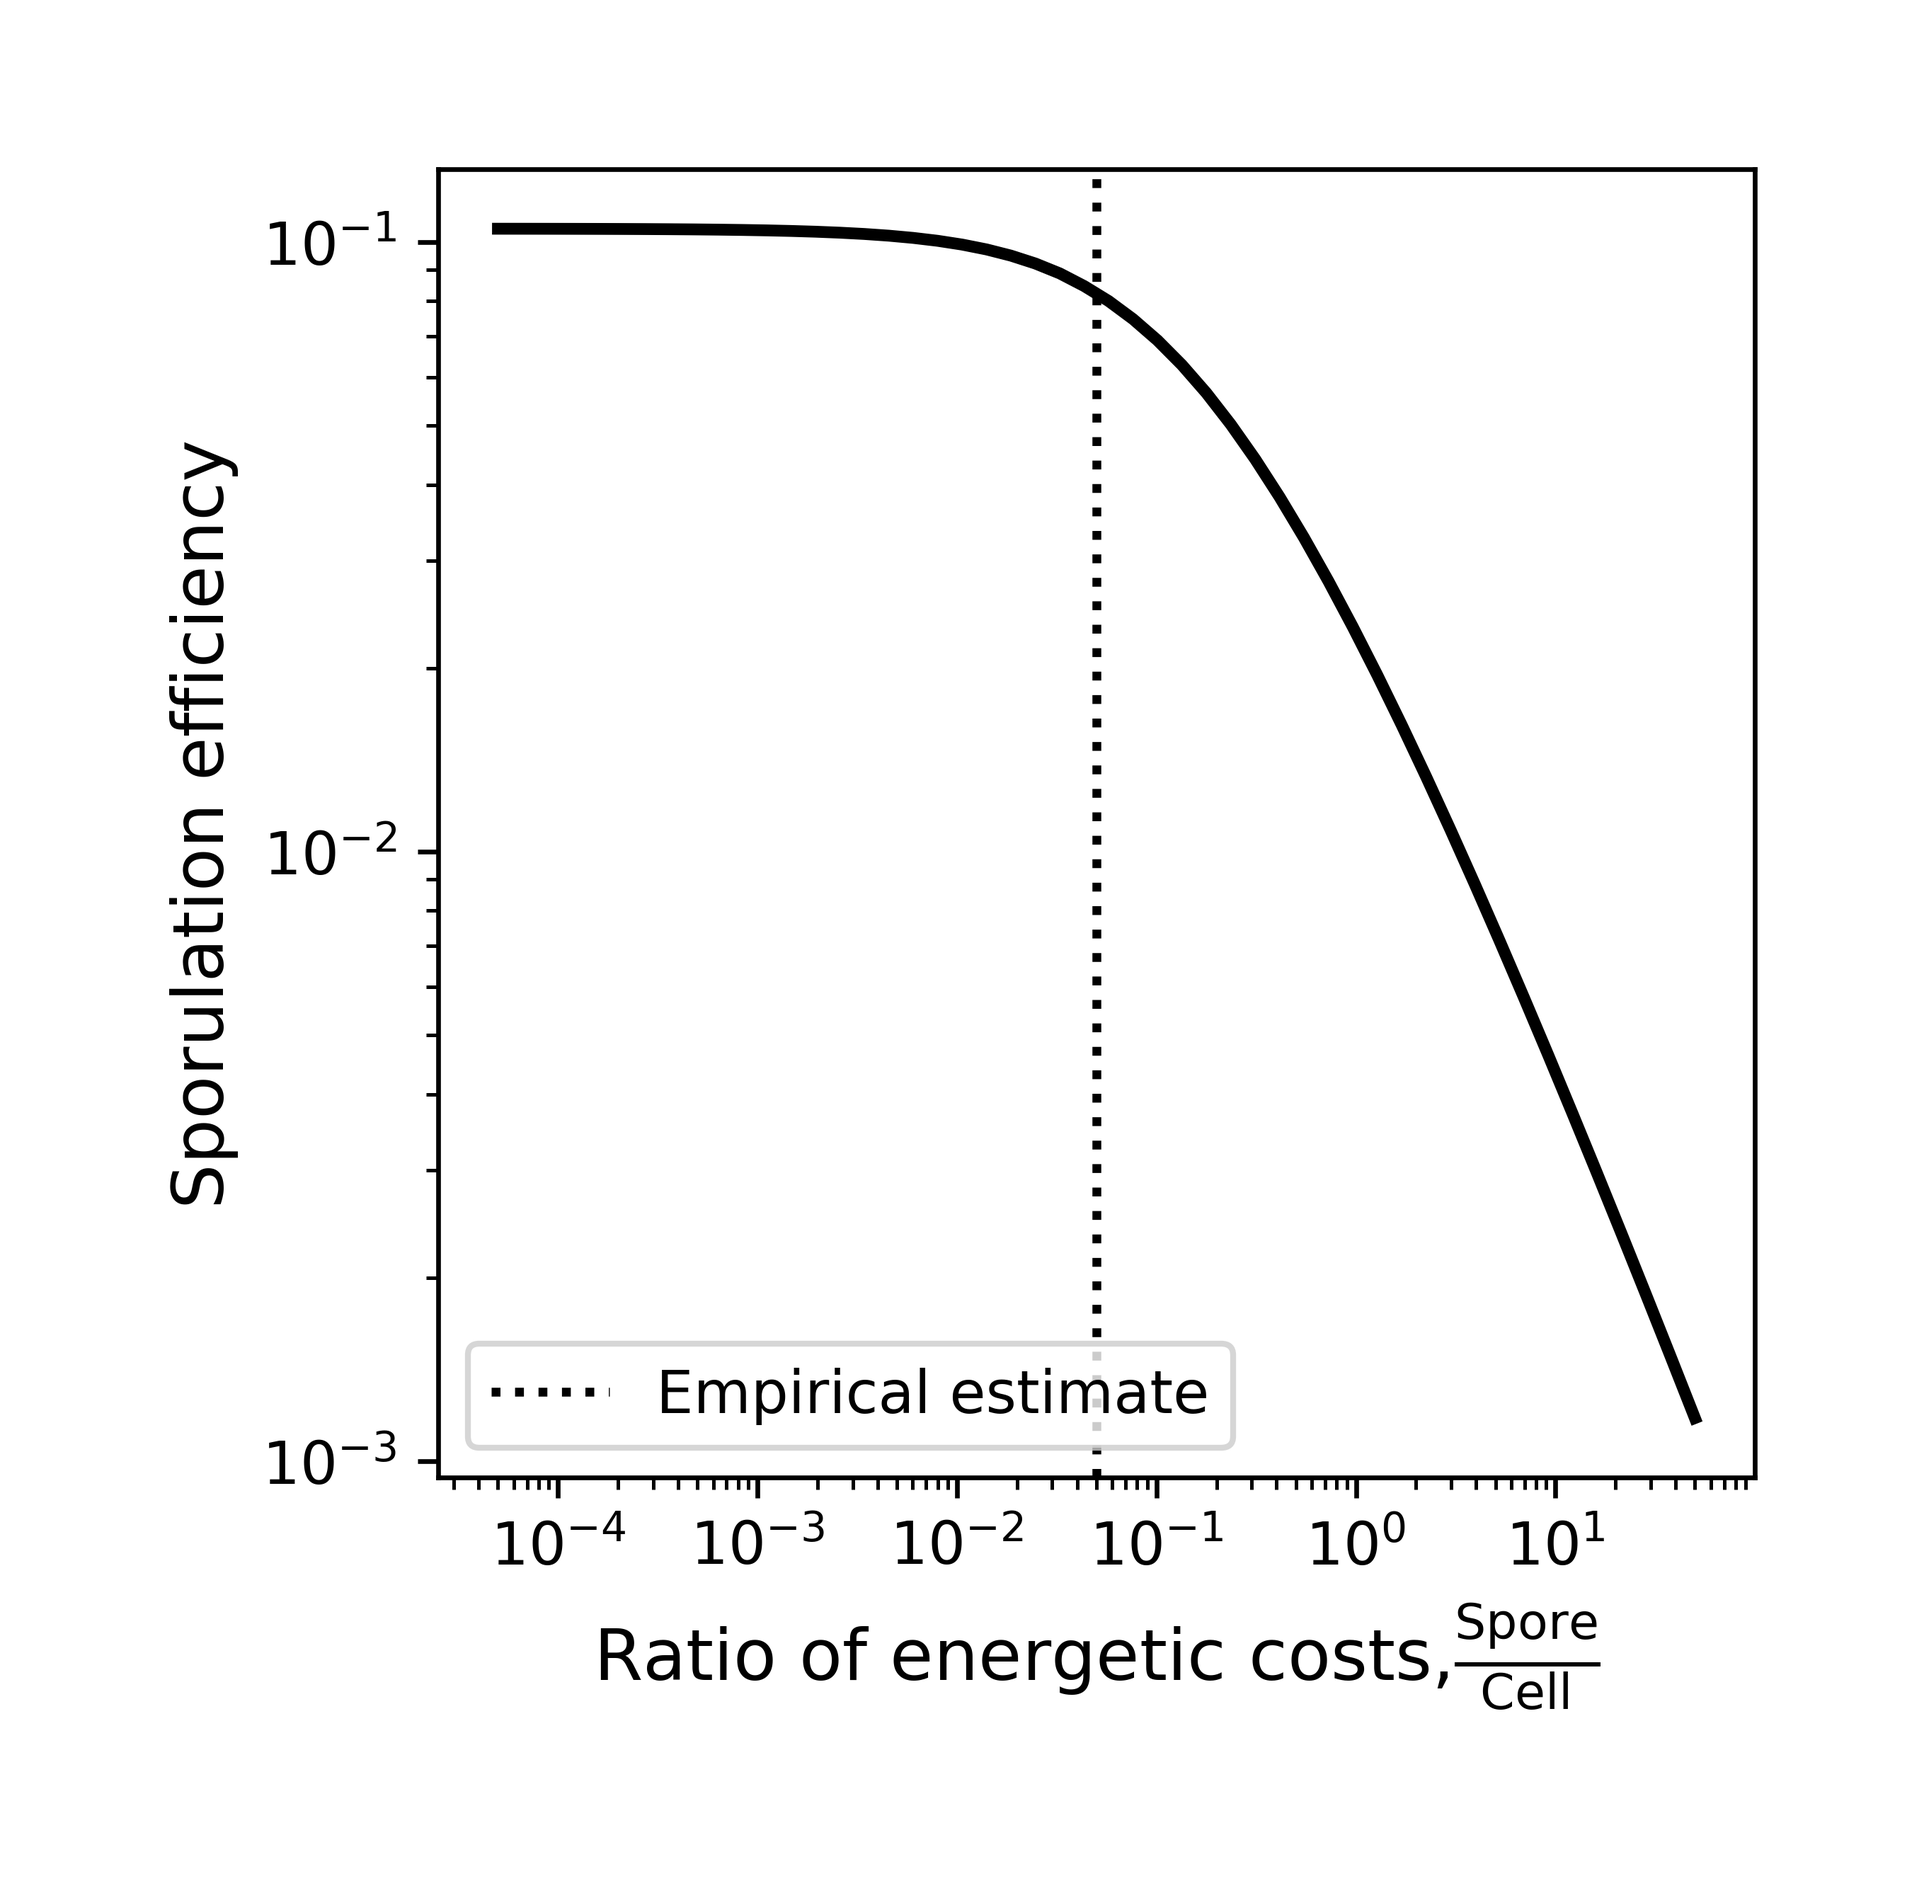
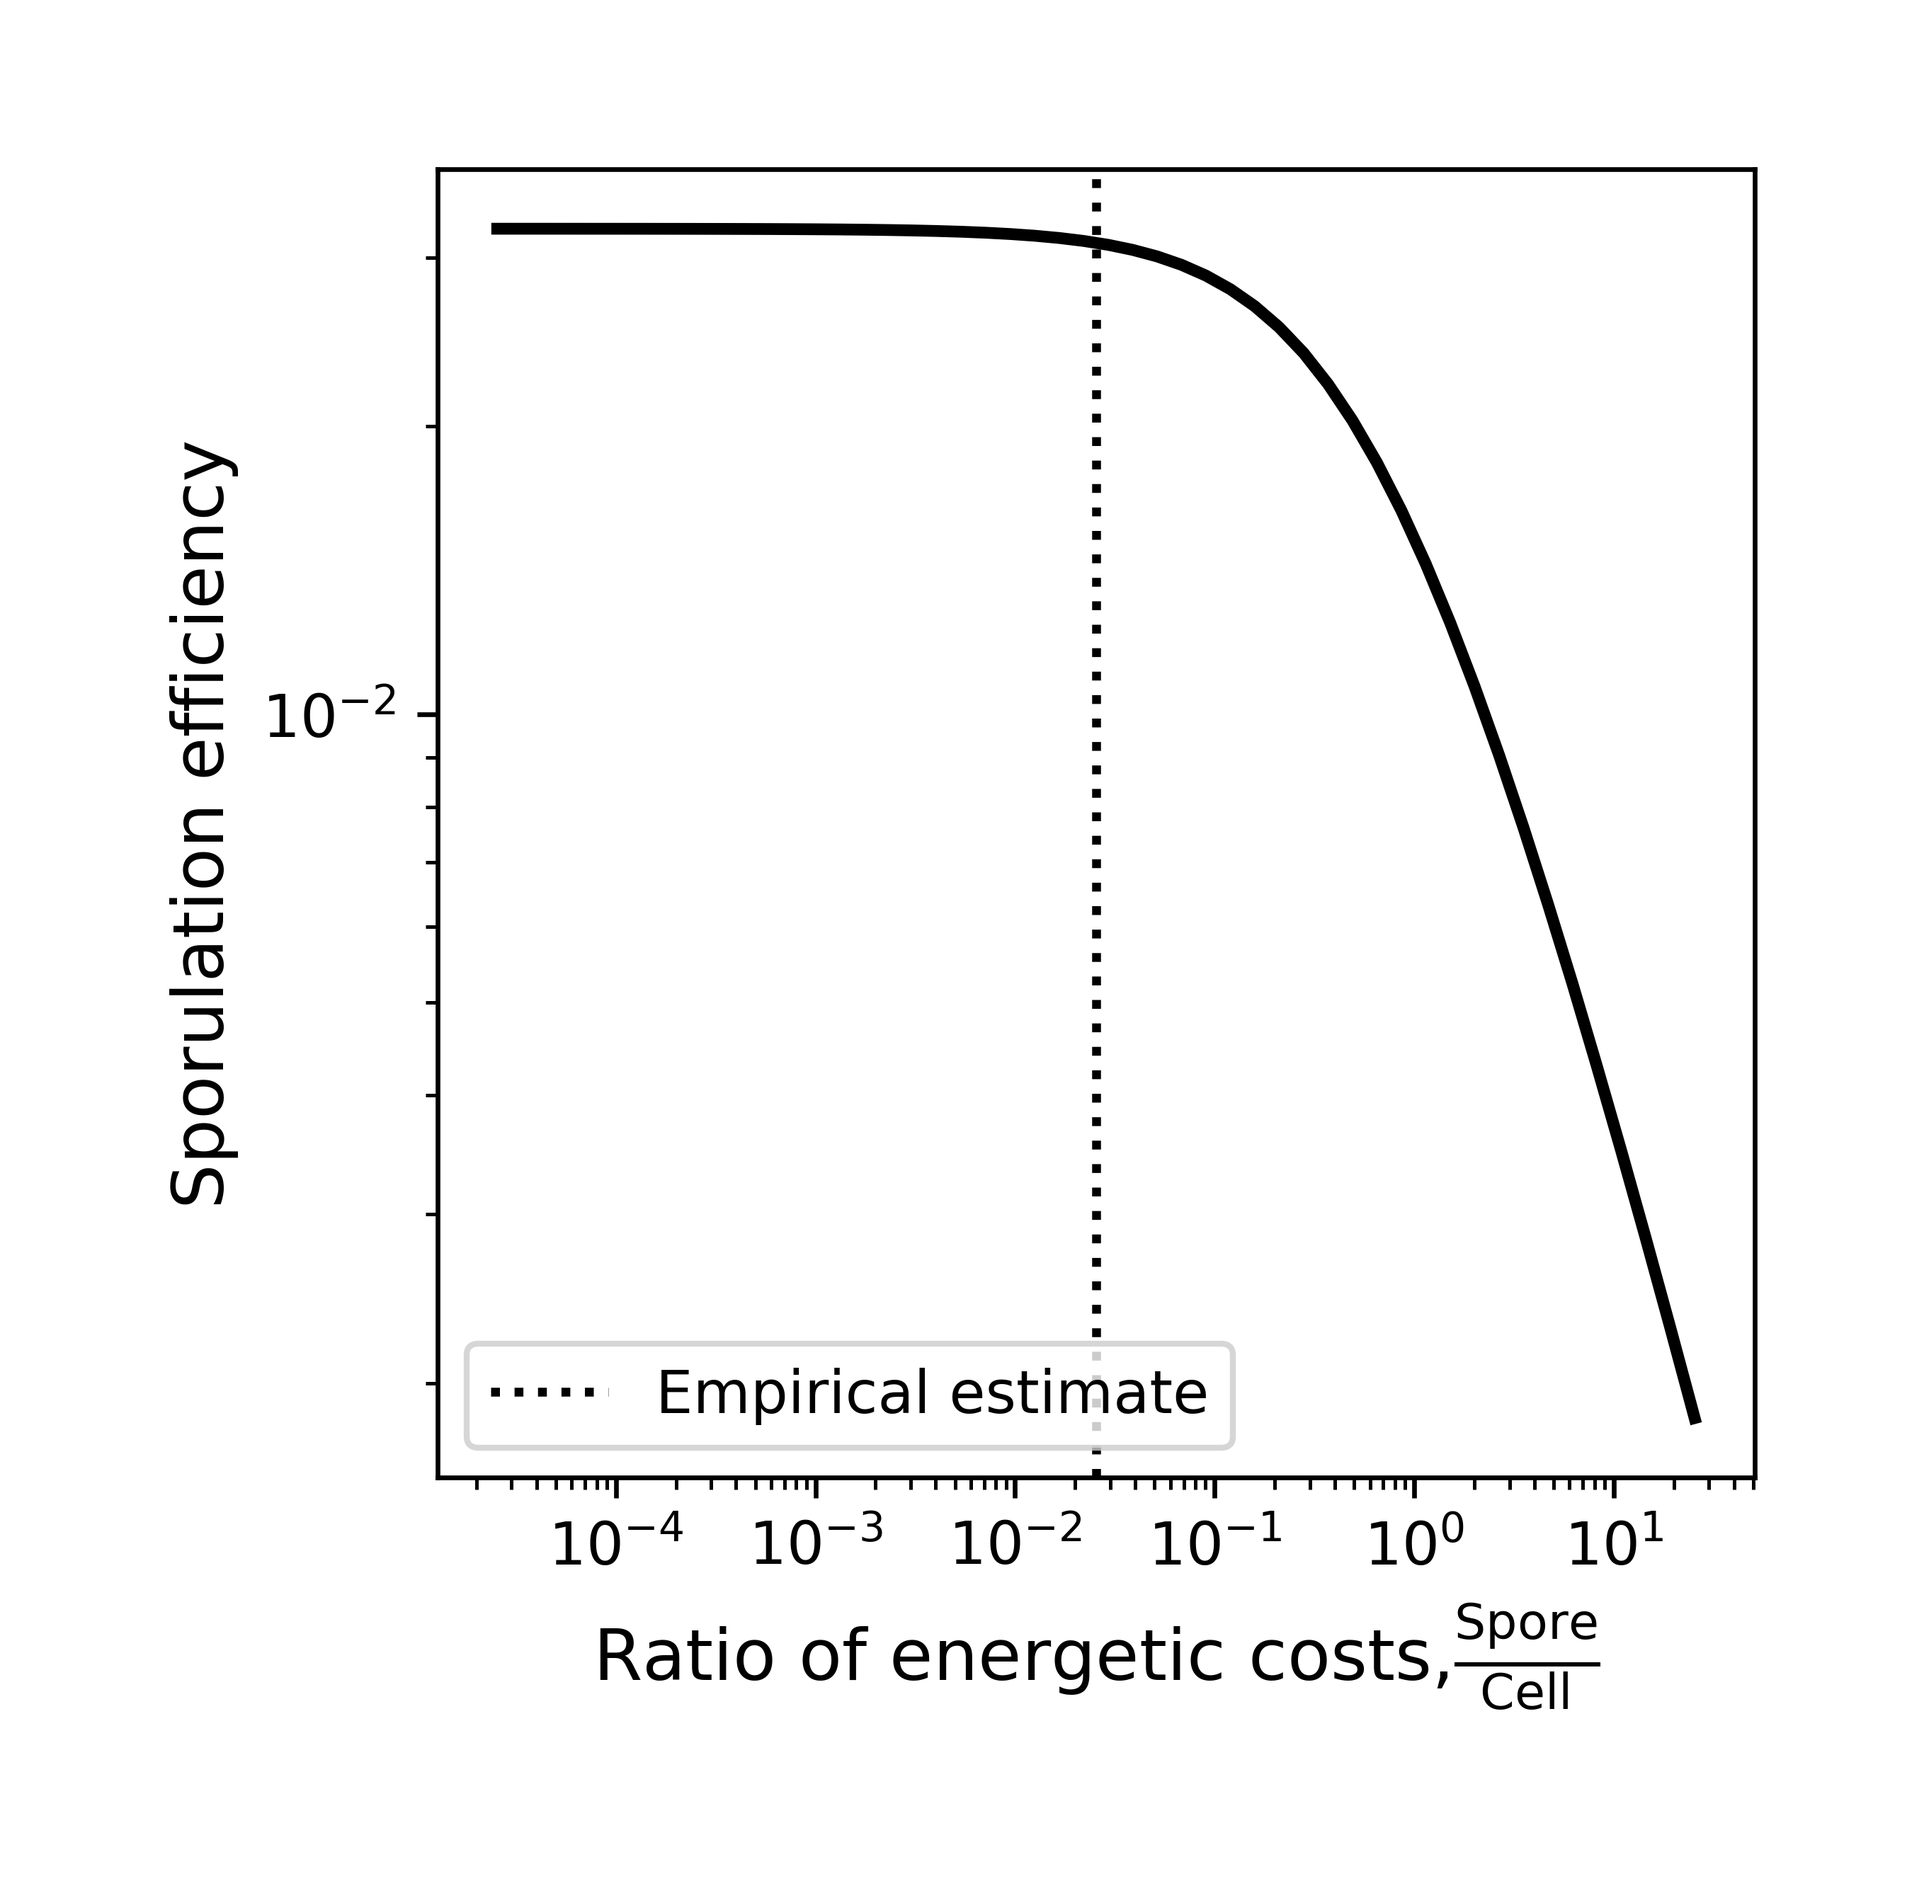
add new ATP costs

diff --git a/efficiency/model/code/plot_compare_model_theory.py b/efficiency/model/code/plot_compare_model_theory.py
@@ -3,7 +3,9 @@ import matplotlib.pyplot as plt
 from scipy.integrate import odeint, solve_ivp
 
 import simulation_utils
-import config
+#import config
+import os
+repo_dir = os.path.expanduser("~/GitHub/cost_of_spore/")
 
 
 
@@ -66,13 +68,14 @@ def plot_example():
 
     ax.set_xlim([0, 48])
     ax.set_ylim([1e-6, 2*chemostat_prediction])
-    ax.set_yscale('log', basey=10)
+    ax.set_yscale('log', base=10)
     ax.legend(loc='upper left')
     ax.set_xlabel("Time (hrs.)", fontsize = 10)
     ax.set_ylabel("Sporulation efficiency", fontsize = 10)
 
     fig.subplots_adjust(hspace=0.25, wspace=0.25)
-    fig_name = "%scompare_model_theory.png" % (config.analysis_directory)
+    #fig_name = "%scompare_model_theory.png" % (config.analysis_directory)
+    fig_name = "%sefficiency/model/figures/compare_model_theory.png" % repo_dir
     fig.savefig(fig_name, format='png', bbox_inches = "tight", pad_inches = 0.4, dpi = 600)
     plt.close()
 
@@ -143,8 +146,8 @@ def plot_prediction_accuracy():
     ax_monod_compare.set_ylim([min(all_monod_data), max(all_monod_data)])
     ax_monod_compare.plot([min(all_monod_data), max(all_monod_data)], [min(all_monod_data), max(all_monod_data)], ls=':', lw=2, c='k', label='1:1')
 
-    ax_monod_compare.set_xscale('log', basex=10)
-    ax_monod_compare.set_yscale('log', basey=10)
+    ax_monod_compare.set_xscale('log', base=10)
+    ax_monod_compare.set_yscale('log', base=10)
     ax_monod_compare.legend(loc='upper left', fontsize=8)
     ax_monod_compare.set_xlabel("Simulated sporulation efficiency", fontsize = 10)
     ax_monod_compare.set_ylabel("Predicted sporulation efficiency", fontsize = 10)
@@ -152,8 +155,8 @@ def plot_prediction_accuracy():
 
     ### ax_monod_accuracy
     #ax_monod_accuracy.axhline(y=1, lw=2, ls=':', c='k')
-    ax_monod_accuracy.set_xscale('log', basex=10)
-    ax_monod_accuracy.set_yscale('log', basey=10)
+    ax_monod_accuracy.set_xscale('log', base=10)
+    ax_monod_accuracy.set_yscale('log', base=10)
     ax_monod_accuracy.legend(loc='upper right',  fontsize=8)
     ax_monod_accuracy.set_xlabel("Rescaled sporulation Monod constant, " + r'$K_{s}/R_{0}$' , fontsize = 10)
     ax_monod_accuracy.set_ylabel("Relative error of prediction", fontsize = 10)
@@ -210,8 +213,8 @@ def plot_prediction_accuracy():
     ax_signal_compare.set_ylim([min(all_signal_data), max(all_signal_data)])
     ax_signal_compare.plot([min(all_signal_data), max(all_signal_data)], [min(all_signal_data), max(all_signal_data)], ls=':', lw=2, c='k', label='1:1')
 
-    ax_signal_compare.set_xscale('log', basex=10)
-    ax_signal_compare.set_yscale('log', basey=10)
+    ax_signal_compare.set_xscale('log', base=10)
+    ax_signal_compare.set_yscale('log', base=10)
     ax_signal_compare.legend(loc='upper left', fontsize=8)
     ax_signal_compare.set_xlabel("Simulated sporulation efficiency", fontsize = 10)
     ax_signal_compare.set_ylabel("Predicted sporulation efficiency", fontsize = 10)
@@ -220,8 +223,8 @@ def plot_prediction_accuracy():
 
     ### ax_monod_accuracy
     #ax_monod_accuracy.axhline(y=1, lw=2, ls=':', c='k')
-    ax_signal_accuracy.set_xscale('log', basex=10)
-    ax_signal_accuracy.set_yscale('log', basey=10)
+    ax_signal_accuracy.set_xscale('log', base=10)
+    ax_signal_accuracy.set_yscale('log', base=10)
     ax_signal_accuracy.legend(loc='upper right',  fontsize=8)
     ax_signal_accuracy.set_xlabel('"Sharpness" of spore formation initiation, ' + r'$\sigma$', fontsize = 10)
     ax_signal_accuracy.set_ylabel("Relative error of prediction", fontsize = 10)
@@ -229,7 +232,8 @@ def plot_prediction_accuracy():
 
 
     fig.subplots_adjust(hspace=0.25, wspace=0.25)
-    fig_name = "%sprediction_accuracy.png" % (config.analysis_directory)
+    #fig_name = "%sprediction_accuracy.png" % (config.analysis_directory)
+    fig_name = "%sefficiency/model/figures/prediction_accuracy.png" % repo_dir
     fig.savefig(fig_name, format='png', bbox_inches = "tight", pad_inches = 0.4, dpi = 600)
     plt.close()
 
@@ -245,5 +249,6 @@ def plot_prediction_accuracy():
 
 
 plot_prediction_accuracy()
+plot_example()
 
 

diff --git a/efficiency/model/code/plot_spore_dynamics.py b/efficiency/model/code/plot_spore_dynamics.py
@@ -1,9 +1,13 @@
 import numpy
+import os
 import matplotlib.pyplot as plt
 from scipy.integrate import odeint, solve_ivp
 
 import simulation_utils
-import config
+#import config
+
+
+repo_dir = os.path.expanduser("~/GitHub/cost_of_spore/")
 
 
 
@@ -26,7 +30,7 @@ s = 0.1
 #sigma = 1000.2*r_0
 sigma = 5
 
-k_spore = 0.01*r_0
+k_spore = 0.05*r_0
 
 
 
@@ -55,7 +59,7 @@ def plot_cr():
     ax.plot(t, z[0,:], ls='-', c='k', lw=2, label='Resource concentration')
     ax.plot(t, z[1,:], ls='-', c='b', lw=2, label='Cell density')
 
-    ax.set_yscale('log', basey=10)
+    ax.set_yscale('log', base=10)
 
     ax.set_xlabel("Time (hrs)", fontsize = 12)
     ax.set_ylabel("Variable", fontsize = 12)
@@ -66,7 +70,8 @@ def plot_cr():
 
 
     fig.subplots_adjust(hspace=0.25, wspace=0.25)
-    fig_name = "%stest_cr.png" % (config.analysis_directory)
+    #fig_name = "%stest_cr.png" % (config.analysis_directory)
+    fig_name = "%sefficiency/model/figures/test_cr.png" % repo_dir
     fig.savefig(fig_name, format='png', bbox_inches = "tight", pad_inches = 0.4, dpi = 600)
     plt.close()
 
@@ -84,7 +89,7 @@ def plot_cr_spores():
     ax.plot(t, z[1,:], ls='-', c='b', lw=2, label='Cell density')
     ax.plot(t, z[2,:], ls='-', c='r', lw=2, label='Spore density')
 
-    ax.set_yscale('log', basey=10)
+    ax.set_yscale('log', base=10)
 
     ax.set_xlabel("Time (hrs)", fontsize = 12)
     ax.set_ylabel("Variable", fontsize = 12)
@@ -94,14 +99,19 @@ def plot_cr_spores():
     ax.legend(loc='lower left')
 
     fig.subplots_adjust(hspace=0.25, wspace=0.25)
-    fig_name = "%scr_spores.png" % (config.analysis_directory)
+    #fig_name = "%scr_spores.png" % (config.analysis_directory)
+    fig_name = "%sefficiency/model/figures/cr_spores.png" % repo_dir
+
     fig.savefig(fig_name, format='png', bbox_inches = "tight", pad_inches = 0.4, dpi = 600)
     plt.close()
 
 
 
     # save data for Canan as flat file
-    data_file_path = '%sconsumer_resource_spore_model.tsv' % config.data_directory
+    #data_file_path = '%sconsumer_resource_spore_model.tsv' % config.data_directory
+    data_file_path = '%sefficiency/model/data/consumer_resource_spore_model.tsv' % repo_dir
+    
+    
     data_file = open(data_file_path, 'w')
     
     time_str =  'hours\t' + ",".join(str(x) for x in t)
@@ -160,13 +170,13 @@ def plot_cost_vs_efficiency():
     #ax.plot(x_axis, efficiency_24_all, ls='--', c='k', lw=2, label='24 hrs.')
     ax.plot(x_axis, efficiency_48_all, ls='-', c='k', lw=2)
 
-    ax.set_xscale('log', basex =10)
-    ax.set_yscale('log', basey=10)
+    ax.set_xscale('log', base=10)
+    ax.set_yscale('log', base=10)
 
     ax.set_xlabel("Ratio of energetic costs," + r'$ \frac{\mathrm{Spore}}{\mathrm{Cell}}$', fontsize = 12)
     ax.set_ylabel("Sporulation efficiency", fontsize = 12)
 
-    ax.axvline(x=1/20, ls=':', c='k', lw=1.5, label='Empirical estimate')
+    ax.axvline(x=simulation_utils.cost_of_spore/simulation_utils.cost_of_cell, ls=':', c='k', lw=1.5, label='Empirical estimate')
     ax.legend(loc='lower left')
 
     #ax.set_ylim([1e-3, 1e10])
@@ -174,13 +184,16 @@ def plot_cost_vs_efficiency():
 
 
     fig.subplots_adjust(hspace=0.25, wspace=0.25)
-    fig_name = "%scr_spores_efficiency.png" % (config.analysis_directory)
+    #fig_name = "%scr_spores_efficiency.png" % (config.analysis_directory)
+    fig_name = "%sefficiency/model/figures/cr_spores_efficiency.png" % repo_dir
     fig.savefig(fig_name, format='png', bbox_inches = "tight", pad_inches = 0.4, dpi = 600)
     plt.close()
 
 
     # save data for Canan as flat file
-    data_file_path = '%sefficiency_data.tsv' % config.data_directory
+    #data_file_path = '%sefficiency_data.tsv' % config.data_directory
+    data_file_path = '%sefficiency/model/data/efficiency_data.tsv' % repo_dir
+    
     data_file = open(data_file_path, 'w')
     time_str =  'spore_vs_cell_atp_ratio\t' + ",".join(str(x) for x in x_axis)
     efficiency_str = 'sporulation_efficiency\t' + ",".join(str(x) for x in efficiency_48_all)

diff --git a/evolution/model/code/plot_evo_ratio.py b/evolution/model/code/plot_evo_ratio.py
@@ -1,7 +1,9 @@
-import config
+#import config
 import numpy
 import matplotlib.pyplot as plt
+import os
 
+repo_dir = os.path.expanduser("~/GitHub/cost_of_spore/")
 
 
 # colors_dict = {'0':'#87CEEB', '1': '#FFA500', '2':'#FF6347'}
@@ -31,8 +33,9 @@ u_del = 0.91e-10
 Ne_all = [1e6, 1e7, 1e8]
 
 # in unit ATPs
-cost_nucleotide = 50
-cellular_budet = 2e10
+# average per-nucleotide cost
+cost_nucleotide = 45.1875
+cellular_budet = 93854440000
 s = cost_nucleotide/cellular_budet
 
 def calculate_ratio_rates(Ne, deletion_size, u_del_):
@@ -74,8 +77,8 @@ ax.plot(deletion_size_all, ratio_rates_higher, ls='-', lw=2, alpha=1, label=r'$N
 ax.axhline(y=u_del/u_sub, lw=2, ls=':', c='k', label='Neutrality')
 
 
-ax.set_xscale('log', basex=10)
-ax.set_yscale('log', basey=10)
+ax.set_xscale('log', base=10)
+ax.set_yscale('log', base=10)
 ax.set_xlabel("Deletion size (bp), " + r'$\Delta$', fontsize = 12)
 ax.set_ylabel("Deletion vs. substitution fixation rates under\nrelaxed selection for spore formation, " + r'$ \frac{d_{\mathrm{del}}}{d_{\mathrm{sub}}}$', fontsize = 11)
 
@@ -84,7 +87,9 @@ ax.set_ylabel("Deletion vs. substitution fixation rates under\nrelaxed selection
 ax.legend(loc='upper left', fontsize=7)
 
 #fig.subplots_adjust(hspace=0.4, wspace=0.35)
-fig_name = "%sevo_ratio.png" % config.analysis_directory
+#fig_name = "%sevo_ratio.png" % config.analysis_directory
+fig_name = "%sevolution/model/figures/evo_ratio.png" % repo_dir
+
 fig.savefig(fig_name, format='png', bbox_inches = "tight", pad_inches = 0.4, dpi = 600)
 plt.close()
 
@@ -93,7 +98,9 @@ plt.close()
 #print(u_del/u_sub)
 
 # save data for Canan as flat file
-data_file_path = '%sevo_ratio.tsv' % config.data_directory
+#data_file_path = '%sevo_ratio.tsv' % config.data_directory
+data_file_path = '%sevolution/model/data/evo_ratio.tsv' % repo_dir
+
 data_file = open(data_file_path, 'w')
 
 deletion_size_str =  'deletion_size\t' + ",".join(str(x) for x in deletion_size_all)
@@ -153,22 +160,24 @@ ax.scatter(deletion_size_conditional_all, null_ratio, s=10, alpha=1, c='k', zord
 #ax.axhline(y=u_del/u_sub, lw=2, ls=':', c='k', label='Neutrality')
 
 #ax.set_xscale('log', basex=10)
-ax.set_yscale('log', basey=10)
+ax.set_yscale('log', base=10)
 ax.set_xlabel("Deletion size (bp), " + r'$\Delta$', fontsize = 12)
 ax.set_ylabel("Deletion vs. substitution fixation rate nunder\nrelaxed selection for spore formation, " + r'$ \frac{d_{\mathrm{del}} (\Delta) }{d_{\mathrm{sub}}}$', fontsize = 11)
-ax.set_xscale('log', basex=10)
+ax.set_xscale('log', base=10)
 ax.legend(loc='upper left', fontsize=7)
 
 #fig.subplots_adjust(hspace=0.4, wspace=0.35)
-#fig_name = "/Users/williamrshoemaker/GitHub/sporecosts_model/analysis/evo_ratio_conditional.png"
-fig_name = "%sevo_ratio_conditional.png" % config.analysis_directory
+#fig_name = "%sevo_ratio_conditional.png" % config.analysis_directory
+fig_name = "%sevolution/model/figures/evo_ratio_conditional.png" % repo_dir
 fig.savefig(fig_name, format='png', bbox_inches = "tight", pad_inches = 0.4, dpi = 600)
 plt.close()
 
 
 
 # save data for Canan as flat file
-data_file_path = '%sevo_ratio_conditional.tsv' % config.data_directory
+#data_file_path = '%sevo_ratio_conditional.tsv' % config.data_directory
+data_file_path = '%sevolution/model/data/evo_ratio_conditional.tsv' % repo_dir
+
 data_file = open(data_file_path, 'w')
 
 deletion_size_str =  'deletion_size\t' + ",".join(str(x) for x in deletion_size_conditional_all)

diff --git a/evolution/model/code/plot_deletion_size_dist.py b/evolution/model/code/plot_deletion_size_dist.py
@@ -1,5 +1,9 @@
 import numpy
 import config
+import os
+
+repo_dir = os.path.expanduser("~/GitHub/cost_of_spore/")
+
 
 import matplotlib.pyplot as plt
 
@@ -82,7 +86,7 @@ ax.set_ylabel("Fraction " + r'$\geq \Delta$', fontsize = 12)
 
 
 fig.subplots_adjust(hspace=0.60,wspace=0.45)
-fig_name = "%sdeletion_size_dist.png" % config.analysis_directory
+fig_name = "%sevolution/empirical/figure/deletion_size_dist.png" % repo_dir
 fig.savefig(fig_name, format='png', bbox_inches = "tight", pad_inches = 0.4, dpi = 600)
 plt.close()
 

diff --git a/efficiency/model/code/simulation_utils.py b/efficiency/model/code/simulation_utils.py
@@ -15,7 +15,10 @@ r_max_spore = 1/8
 y_v = 10**6 # (maybe)
 #(4*10**10)/ (2*10**9) = 20, spore formation is 20X more efficient than cell formation
 #y_s = 20*y_v
-y_s = 20*y_v
+cost_of_cell = 93854440000
+cost_of_spore = 2385796113
+y_s = (cost_of_cell/cost_of_spore)*y_v
+#y_s = 2385796113
 
 
 
